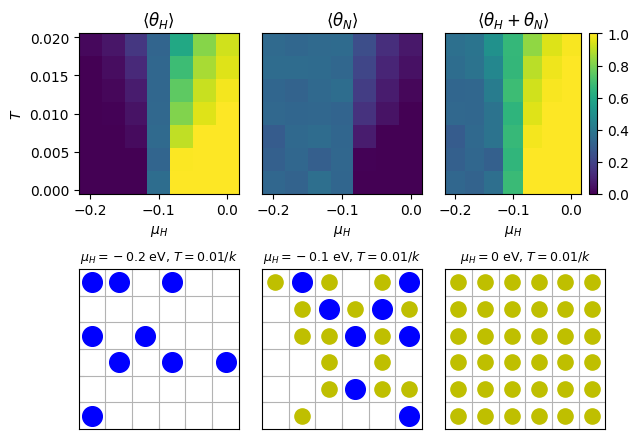
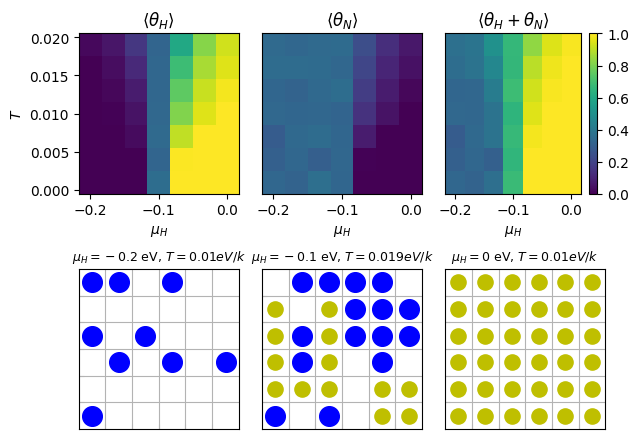
Figures updated

Changed region(s): [[0.1191, 0.5626, 0.685, 0.9772], [0.5361, 0.7403, 0.6552, 0.9772], [0.7147, 0.5626, 0.953, 0.6219]]

diff --git a/Project_1/GCMC_adsorption/2_adsorbate.py b/Project_1/GCMC_adsorption/2_adsorbate.py
@@ -91,7 +91,7 @@ def attempt_change(lattice, N_A, N_B, N_0, neighbor_indices, param):
         if (N_0 == 0):
             return lattice, N_A, N_B, N_0
         zeros = np.transpose(np.nonzero(lattice==0))
-        site = tuple(zeros[np.random.randint(zeros.shape[0])])
+        site = tuple(zeros[np.random.randint(zeros.shape[0])]) # Random unoccupied position
         
         if (np.random.randint(2) == 0): # Particle 1
             particle = 1
@@ -116,7 +116,7 @@ def attempt_change(lattice, N_A, N_B, N_0, neighbor_indices, param):
         if (N_0 == lattice.size):
             return lattice, N_A, N_B, N_0
         occupied = np.transpose(np.nonzero(lattice))
-        site = tuple(occupied[np.random.randint(occupied.shape[0])])
+        site = tuple(occupied[np.random.randint(occupied.shape[0])]) # Random occupied position
         particle = lattice[site]
         if (particle == 1):
             mu = param["mu_A"]
@@ -288,14 +288,13 @@ if (__name__ == "__main__"):
         # Plot the final lattice configuration
 
         # mu_A = -0.2 eV and T = 0.01 / k
-        axs[3] = plot_lattice(final_lattice[0, 3], axs[3], r'$\mu_H = -0.2$ eV, $T = 0.01 / k$')
+        axs[3] = plot_lattice(final_lattice[0, 3], axs[3], r'$\mu_H = -0.2$ eV, $T = 0.01eV / k$')
 
         # mu_A = -0.1 eV and T = 0.01 / k
-        axs[4] = plot_lattice(final_lattice[3, 3], axs[4], r'$\mu_H = -0.1$ eV, $T = 0.01 / k$')
+        axs[4] = plot_lattice(final_lattice[3, 6], axs[4], r'$\mu_H = -0.1$ eV, $T = 0.019eV / k$')
 
         # mu_A = 0 eV and T = 0.01 / k
-        axs[5] = plot_lattice(final_lattice[6, 3], axs[5], r'$\mu_H = 0$ eV, $T = 0.01 / k$')
+        axs[5] = plot_lattice(final_lattice[6, 3], axs[5], r'$\mu_H = 0$ eV, $T = 0.01eV / k$')
 
         plt.tight_layout()
         plt.show()
-        
